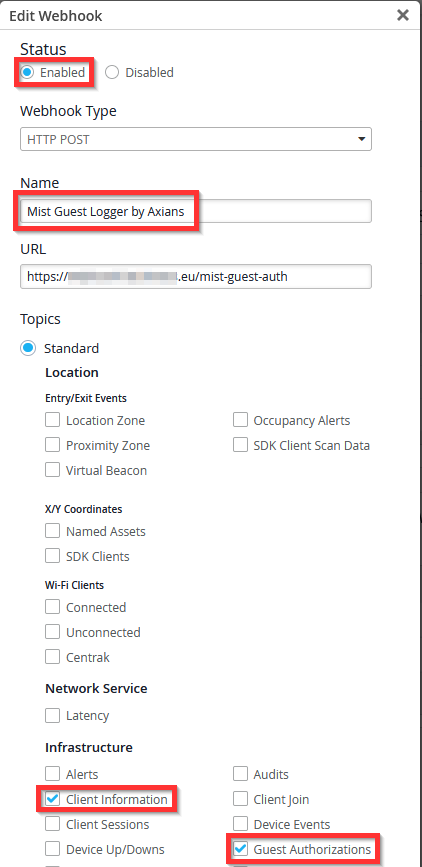
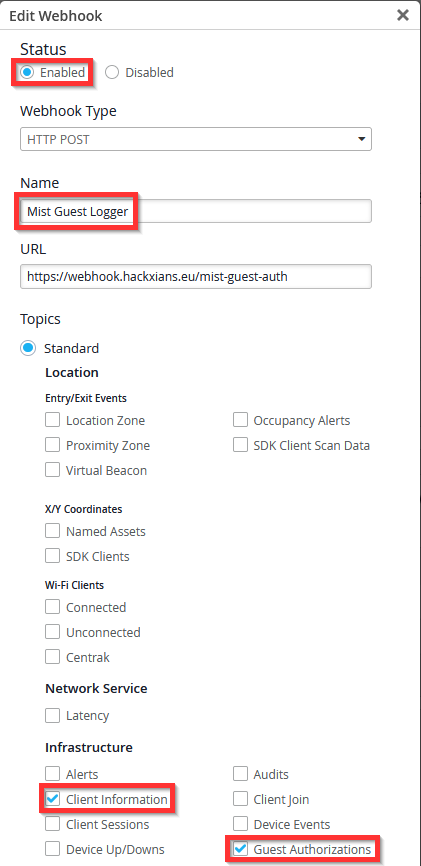
Update README and webhook configuration screenshot

diff --git a/README.md b/README.md
@@ -12,6 +12,8 @@ The webhook receiver runs over plain HTTP on tcp/3000 and must be exposed over H
 
 `https://<your-reverse-proxy-url>/mist-guest-auth`
 
+Mist Webhook configuration is accessible on your Mist dashboard in Organization > Site Configuration > select a site > Webhooks (if you have multiple sites, you need to configure each of them):
+
 ![screenshot](scrnshot-webhook-configuration.png)
 
 ## Running the script with Docker Compose (Recommended!)